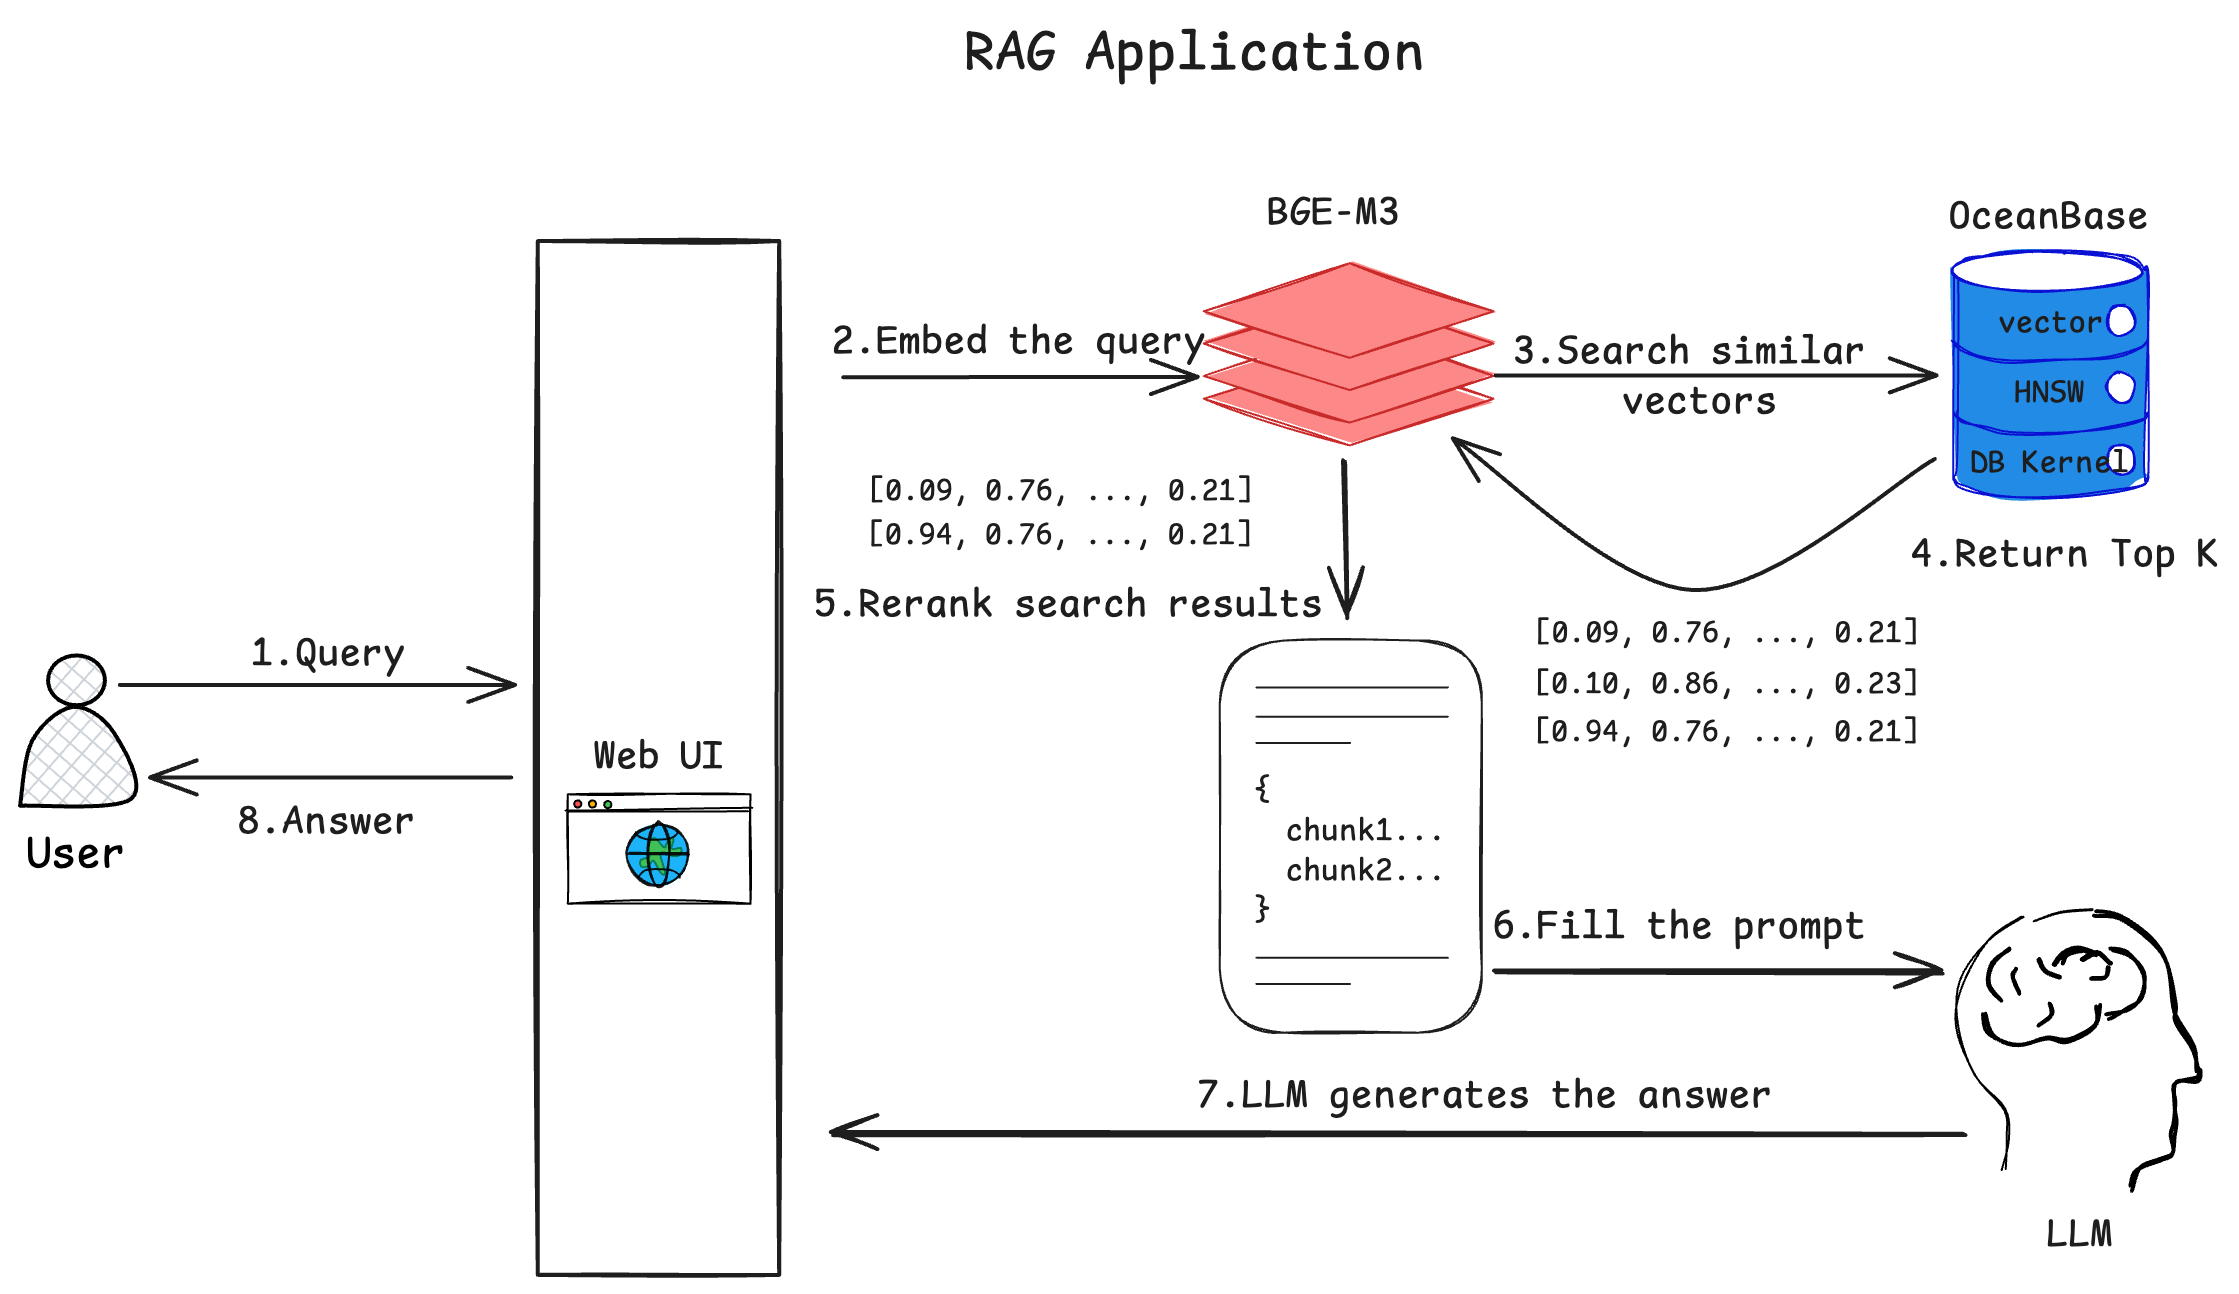
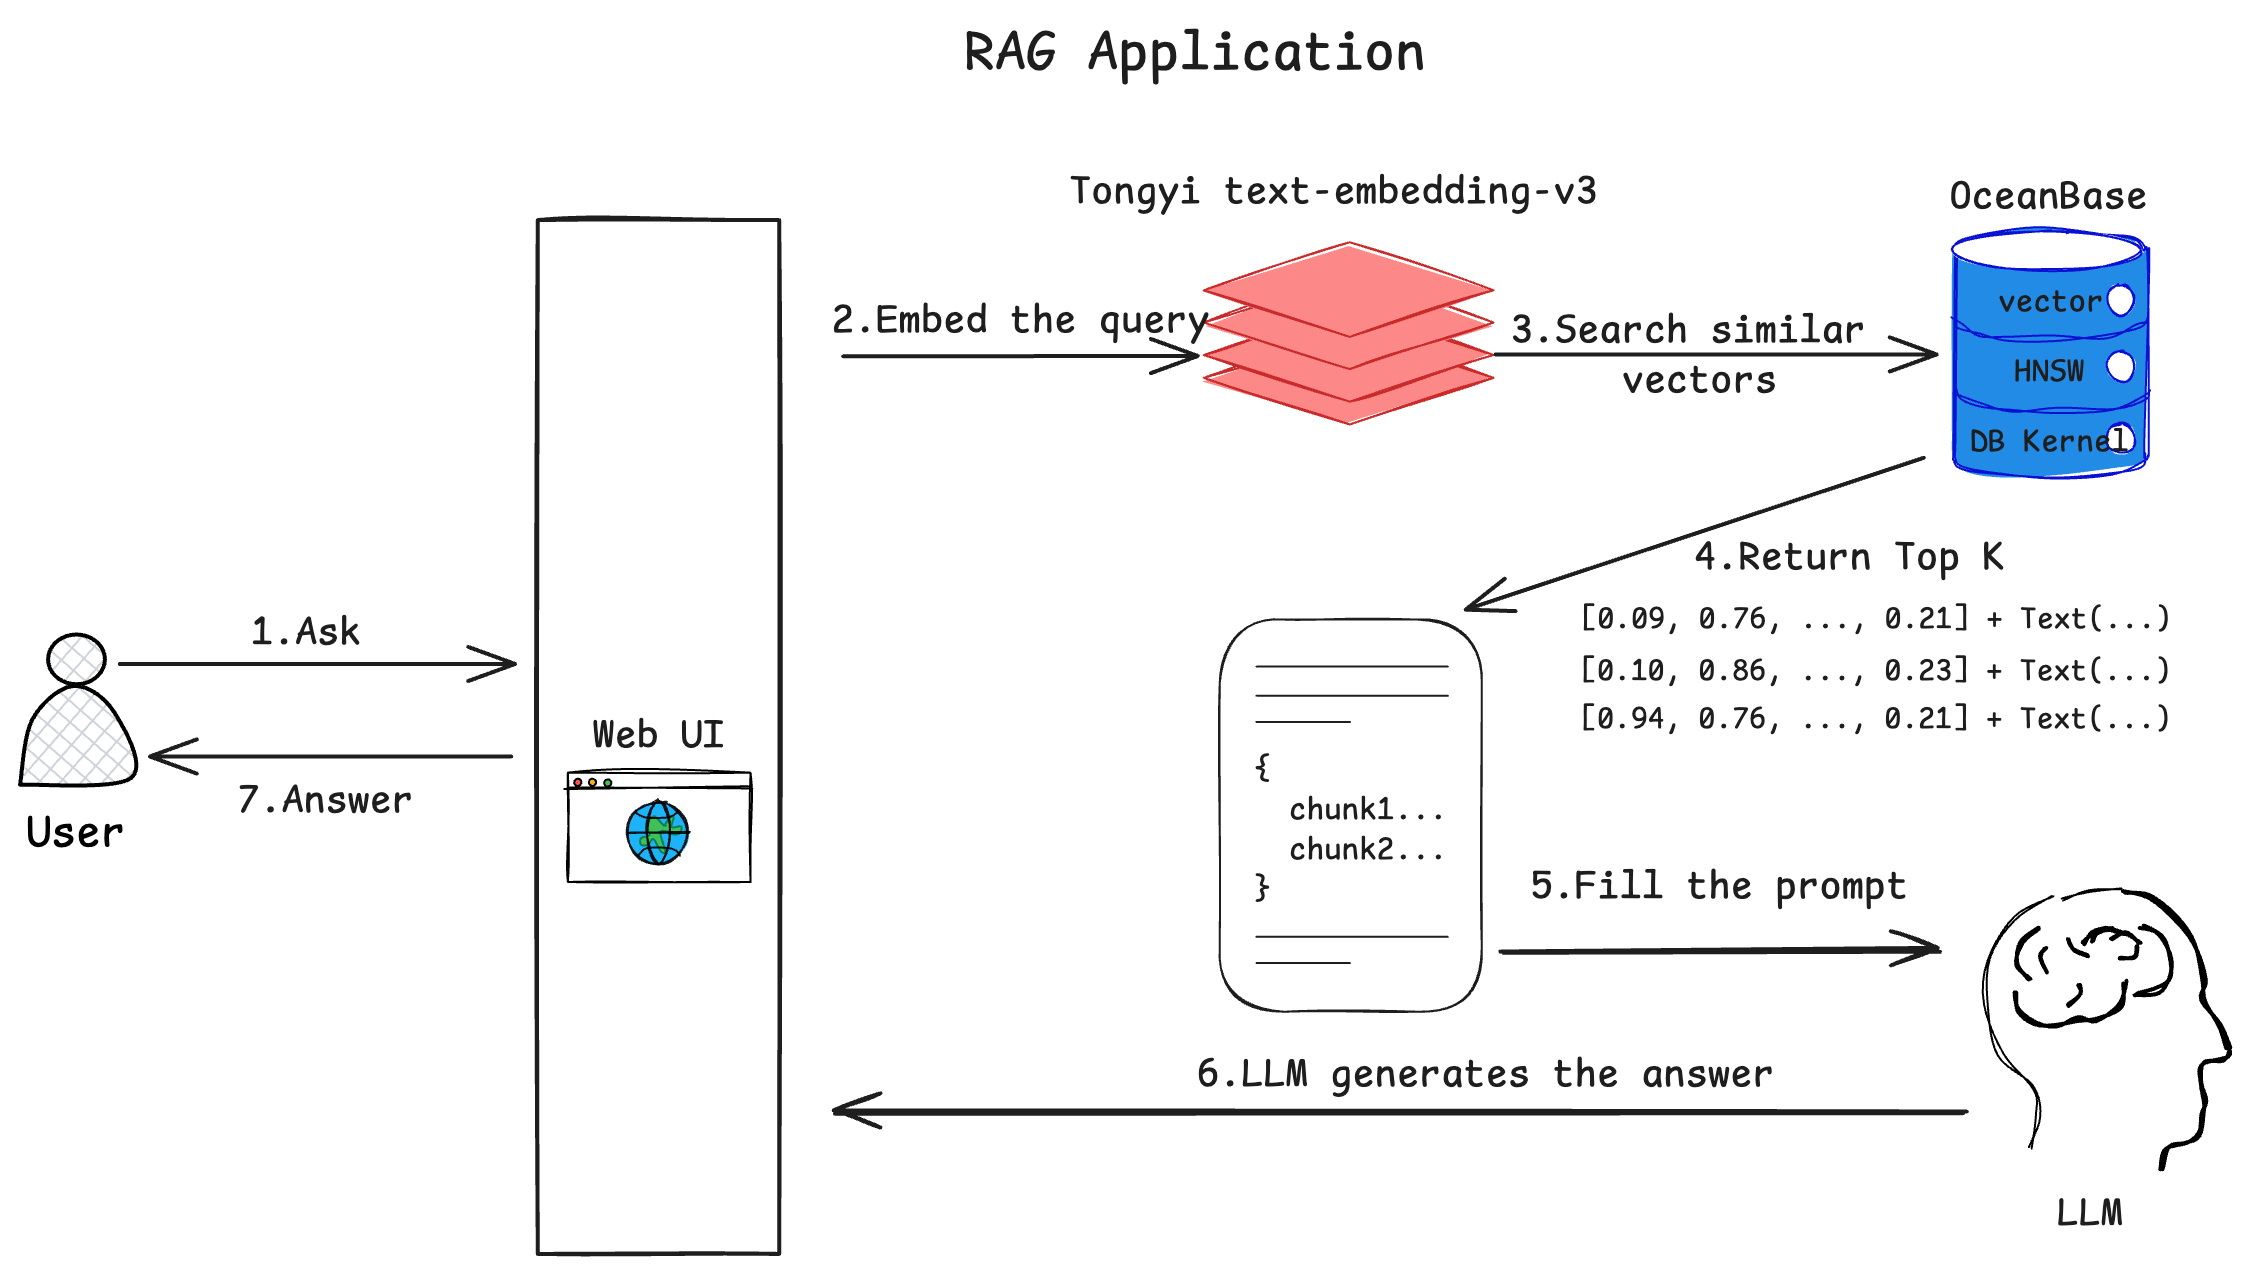
docs: update readme_zh for adopting tongyi embedding

diff --git a/README_zh.md b/README_zh.md
@@ -2,38 +2,109 @@
 
 [英文版](./README.md)
 
-## 介绍
+## 项目介绍
 
-在这个动手实战营中，我们会构建一个 RAG 聊天机器人，用来回答与 OceanBase 文档相关的问题。它将采用开源的 OceanBase 文档仓库作为多模数据源，把文档转换为向量和结构化数据存储在 OceanBase 中。用户提问时，该机器人将用户的问题作为输入在数据库中进行文档检索，结合文档检索的结果，借助智谱 AI 提供的大语言模型能力来回答用户的问题。
+在这个动手实战营中，我们会构建一个 RAG 聊天机器人，用来回答与 OceanBase 文档相关的问题。它将采用开源的 OceanBase 文档仓库作为多模数据源，把文档转换为向量和结构化数据存储在 OceanBase 中。用户提问时，该机器人将用户的问题同样转换为向量之后在数据库中进行向量检索，结合向量检索得到的文档内容，借助通义千问提供的大语言模型能力来为用户提供更加准确的回答。
+
+### 项目组成
 
 该机器人将由以下几个组件组成：
 
-1. 将文档转换为向量的文本嵌入模型，BGE-M3
-2. 提供存储和查询文档向量和其他结构化数据的数据库，OceanBase
-3. 若干分析用户问题、基于检索到的文档和用户问题生成回答的 LLM 智能体，利用智谱 AI 的大模型能力
-4. 与用户交互的聊天界面，采用 Streamlit 搭建
+1. 将文档转换为向量的文本嵌入服务，在这里我们使用通义千问的嵌入 API
+2. 提供存储和查询文档向量和其他结构化数据能力的数据库，我们使用 OceanBase 4.3.3 版本
+3. 若干分析用户问题、基于检索到的文档和用户问题生成回答的 LLM 智能体，利用通义千问的大模型能力构建
+4. 机器人与用户交互的聊天界面，采用 Streamlit 搭建
+
+### 交互流程
 
 ![RAG 流程](./demo/rag-flow.png)
 
+1. 用户在 Web 界面中输入想要咨询的问题并发送给机器人
+2. 机器人将用户提出的问题使用文本嵌入模型转换为向量
+3. 将用户提问转换而来的向量作为输入在 OceanBase 中检索最相似的向量
+4. OceanBase 返回最相似的一些向量和对应的文档内容
+5. 机器人将用户的问题和查询到的文档一起发送给大语言模型并请它生成问题的回答
+6. 大语言模型分片地、流式地将答案返回给机器人
+7. 机器人将接收到的答案也分片地、流式地显示在 Web 界面中，完成一轮问答
+
+## 概念解析
+
+### 什么是文本嵌入?
+
+文本嵌入是一种将文本转换为数值向量的技术。这些向量能够捕捉文本的语义信息，使计算机可以"理解"和处理文本的含义。具体来说:
+
+- 文本嵌入将词语或句子映射到高维向量空间中的点
+- 在这个向量空间中，语义相似的文本会被映射到相近的位置
+- 向量通常由数百个数字组成(如 512 维、1024 维等)
+- 可以用数学方法(如余弦相似度)计算向量之间的相似度
+- 常见的文本嵌入模型包括 Word2Vec、BERT、BGE 等
+
+在本项目中，我们使用通义千问的文本嵌入模型来生成文档的向量表示，这些向量将被存储在 OceanBase 数据库中用于后续的相似度检索。
+
+例如使用嵌入模型将“苹果”、“香蕉”和“橘子”分别转换为 4 维的向量，它们的向量表示可能如下图所示，需要注意的是我们为了方便表示，将向量的维度降低到了 4 维，实际上文本嵌入产生的向量维数通常是几百或者几千维，例如我们使用的通义千问 text-embedding-v3 产生的向量维度是 1024 维。
+
+![Embedding Example](./demo/embedding-example.png)
+
+### 什么是向量检索?
+
+向量检索是在向量数据库中快速找到与查询向量最相似的向量的技术。其核心特点包括:
+
+- 基于向量间的距离（如欧氏距离）或相似度（如余弦相似度）进行搜索
+- 通常使用近似最近邻（Approximate Nearest Neighbor, ANN）算法来提高检索效率
+- 常见的 ANN 算法包括 HNSW、IVF 等，OceanBase 4.3.3 支持 HNSW 算法
+- 可以快速从百万甚至亿级别的向量中找到最相似的结果
+- 相比传统关键词搜索，向量检索能更好地理解语义相似性
+
+OceanBase 在关系型数据库模型基础上将“向量”作为一种数据类型进行了完好的支持，使得在 OceanBase 一款数据库中能够同时针对向量数据和常规的结构化数据进行高效的存储和检索。在本项目中，我们会使用OceanBase 建立 HNSW (Hierarchical Navigable Small World) 向量索引来实现高效的向量检索，帮助我们快速找到与用户问题最相关的文档片段。
+
+如果我们在已经嵌入“苹果”、“香蕉”和“橘子”的 OceanBase 数据库中使用“红富士”作为查询文本，那么我们可能会得到如下的结果，其中“苹果”和“红富士”之间的相似度最高。（假设我们使用余弦相似度作为相似度度量）
+
+![Vector Search Example](./demo/vector-search-example.png)
+
+### 什么是 RAG?
+
+RAG (Retrieval-Augmented Generation，检索增强生成) 是一种结合检索系统和生成式 AI 的混合架构，用于提高 AI 回答的准确性和可靠性。其工作流程为:
+
+1. 检索阶段:
+
+- 将用户问题转换为向量
+- 在知识库中检索相关文档
+- 选择最相关的文档片段
+
+2. 生成阶段:
+
+- 将检索到的文档作为上下文提供给大语言模型
+- 大语言模型基于问题和上下文生成回答
+- 确保回答的内容来源可追溯
+
+RAG 的主要优势有：
+
+- 降低大语言模型的幻觉问题
+- 能够利用最新的知识和专业领域信息
+- 提供可验证和可追溯的答案
+- 适合构建特定领域的问答系统
+
+大语言模型的训练和发布需要耗费较长的时间，且训练数据在开启训练之后便停止了更新。而现实世界的信息熵增无时无刻不在持续，要让大语言模型在“昏迷”几个月之后还能自发地掌握当下最新的信息显然是不现实的。而 RAG 就是让大模型用上了“搜索引擎”，在回答问题前先获取新的知识输入，这样通常能较大幅度地提高生成回答的准确性。
+
 ## 准备工作
 
-注意：如果您正在参加 OceanBase AI 动手实战营，您可以跳过以下步骤 1 ~ 3。所有所需的软件都已经在机器上准备好了。:)
+注意：如果您正在参加 OceanBase AI 动手实战营，您可以跳过以下步骤 1 ~ 4。所有所需的软件都已经在机器上准备好了。:)
 
 1. 安装 [Python 3.9+](https://www.python.org/downloads/) 和 [pip](https://pip.pypa.io/en/stable/installation/)
 
-2. 安装 [Poetry](https://python-poetry.org/docs/)
-
-```bash
-python3 -m pip install poetry
-```
+2. 安装 [Poetry](https://python-poetry.org/docs/)，可参考命令 `python3 -m pip install poetry`
 
 3. 安装 [Docker](https://docs.docker.com/engine/install/)
 
-4. 注册 [智谱 AI](https://open.bigmodel.cn/) 账号并获取 API Key
+4. 安装 MySQL 客户端，可参考 `yum install -y mysql` 或者 `apt-get install -y mysql-client`
 
-![智谱 AI](./demo/zhipu-dashboard.png)
+5. 确保您机器上该项目的代码是最新的状态，建议进入项目目录执行 `git pull`
 
-![智谱 API Key](./demo/zhipu-api-key.png)
+6. 注册[阿里云百炼](https://bailian.console.aliyun.com/)账号并获取 API Key
+
+![阿里云百炼](./demo/dashboard.png)
+
+![获取阿里云百炼 API Key](./demo/get-api-key.png)
 
 ## 构建聊天机器人
 
@@ -50,7 +121,7 @@ systemctl start docker
 随后您可以使用以下命令启动一个 OceanBase docker 容器：
 
 ```bash
-docker run --ulimit stack=4294967296 --name=ob433 -e MODE=mini -e OB_MEMORY_LIMIT=8G -e OB_DATAFILE_SIZE=10G -e OB_CLUSTER_NAME=ailab2024 -p 127.0.0.1:2881:2881 -d quay.io/oceanbase/oceanbase-ce:4.3.3.1-101000012024102216
+docker run --name=ob433 -e MODE=mini -e OB_MEMORY_LIMIT=8G -e OB_DATAFILE_SIZE=10G -e OB_CLUSTER_NAME=ailab2024 -p 127.0.0.1:2881:2881 -d quay.io/oceanbase/oceanbase-ce:4.3.3.1-101000012024102216
 ```
 
 如果上述命令执行成功，将会打印容器 ID，如下所示：
@@ -81,26 +152,16 @@ Wait for observer init ok
 +------------+---------+------+-------+--------+
 | ip         | version | port | zone  | status |
 +------------+---------+------+-------+--------+
-| 172.17.0.2 | 4.3.3.0 | 2881 | zone1 | ACTIVE |
+| 172.17.0.2 | 4.3.3.1 | 2881 | zone1 | ACTIVE |
 +------------+---------+------+-------+--------+
 obclient -h172.17.0.2 -P2881 -uroot -Doceanbase -A
 
 cluster unique id: c17ea619-5a3e-5656-be07-00022aa5b154-19298807cfb-00030304
 
 obcluster running
-Trace ID: 08f99c98-8c37-11ef-ad07-0242ac110002
-If you want to view detailed obd logs, please run: obd display-trace 08f99c98-8c37-11ef-ad07-0242ac110002
-Get local repositories and plugins ok
-Open ssh connection ok
-Connect to observer ok
-Create tenant test ok
-Exec oceanbase-ce-4.3.3.0-100000142024101215.el8-3eee13839888800065c13ffc5cd7c3e6b12cb55c import_time_zone_info.py ok
-Exec oceanbase-ce-4.3.3.0-100000142024101215.el8-3eee13839888800065c13ffc5cd7c3e6b12cb55c import_srs_data.py ok
-obclient -h172.17.0.2 -P2881 -uroot@test -Doceanbase -A
 
-optimize tenant with scenario: express_oltp ok
-Trace ID: 3c50193c-8c37-11ef-ace2-0242ac110002
-If you want to view detailed obd logs, please run: obd display-trace 3c50193c-8c37-11ef-ace2-0242ac110002
+...
+
 check tenant connectable
 tenant is connectable
 boot success!
@@ -161,45 +222,47 @@ cp .env.example .env
 vi .env
 ```
 
-`.env.example` 文件的内容如下，如果您正在按照动手实战营的步骤进行操作（使用智谱 AI 提供的 LLM 能力），您只需要更新 `API_KEY` 为您从智谱 AI 控制台获取的值，其他值可以保留为默认值。
+`.env.example` 文件的内容如下，如果您正在按照动手实战营的步骤进行操作（使用通义千问提供的 LLM 能力），您只需要更新 `API_KEY` 为您从阿里云百炼控制台获取的值，其他值可以保留为默认值。
 
 ```bash
-API_KEY=xxxxxxxxxxxxxxxxxxxxxxxxxxxxxxxx # 把这个配置项更新为您从智谱 AI 上获取到的 API_KEY
-LLM_BASE_URL="https://open.bigmodel.cn/api/paas/v4/"
-LLM_MODEL="glm-4-flash"
+API_KEY=xxxxxxxxxxxxxxxxxxxxxxxxxxxxxxxx # 填写 API Key
+LLM_MODEL="qwen-turbo-2024-11-01"
+LLM_BASE_URL="https://dashscope.aliyuncs.com/compatible-mode/v1"
 
 HF_ENDPOINT=https://hf-mirror.com
 BGE_MODEL_PATH=BAAI/bge-m3
 
+OLLAMA_URL=
+OLLAMA_TOKEN=
+
+OPENAI_API_KEY= # 填写 API Key
+OPENAI_BASE_URL="https://dashscope.aliyuncs.com/compatible-mode/v1"
+OPENAI_EMBEDDING_MODEL=text-embedding-v3
+
 DB_HOST="127.0.0.1"
 DB_PORT="2881"
 DB_USER="root@test"
-DB_NAME="test"
+DB_NAME="" # 填写你的数据库名
 DB_PASSWORD=""
+
+UI_LANG="zh"
 ```
 
-### 4. 准备 BGE-M3 模型
+### 4. 创建数据库
 
-BGE-M3 是一个预训练模型，可以将文本转换为向量。它在多种语言的嵌入任务中表现良好，可以用于将 OceanBase 的开源文档嵌入成为向量。
-
-我们通过执行以下命令准备 BGE-M3 模型：
+您可使用我们准备好的创建数据库的脚本来完成快速创建，可参考如下命令:
 
 ```bash
-poetry run python utils/prepare_bgem3.py
+bash utils/create_db.sh
+# 如果有如下输出说明数据库创建完成
+# Database xxx created successfully
 ```
 
-BGE-M3 模型文件大小约为 2 ~ 3 GB，下载过程可能会花费较长时间，具体时间取决于您的网络状况。如果模型已经下载完成，这一步大约需要半分钟来加载模型。当模型准备好时，您将看到以下消息：
+可通过另外一个脚本来尝试连接数据库，以确保数据库创建成功：
 
 ```bash
-Fetching 30 files: 100%|████████████████████████████████████████████████████████████████| 30/30 [00:00<00:00, 104509.24it/s]
-/root/.cache/pypoetry/virtualenvs/ai-workshop-aLQYZfdO-py3.10/lib/python3.10/site-packages/FlagEmbedding/BGE_M3/modeling.py:335: FutureWarning: You are using `torch.load` with `weights_only=False` (the current default value), which uses the default pickle module implicitly. It is possible to construct malicious pickle data which will execute arbitrary code during unpickling (See https://github.com/pytorch/pytorch/blob/main/SECURITY.md#untrusted-models for more details). In a future release, the default value for `weights_only` will be flipped to `True`. This limits the functions that could be executed during unpickling. Arbitrary objects will no longer be allowed to be loaded via this mode unless they are explicitly allowlisted by the user via `torch.serialization.add_safe_globals`. We recommend you start setting `weights_only=True` for any use case where you don't have full control of the loaded file. Please open an issue on GitHub for any issues related to this experimental feature.
-  colbert_state_dict = torch.load(os.path.join(model_dir, 'colbert_linear.pt'), map_location='cpu')
-/root/.cache/pypoetry/virtualenvs/ai-workshop-aLQYZfdO-py3.10/lib/python3.10/site-packages/FlagEmbedding/BGE_M3/modeling.py:336: FutureWarning: You are using `torch.load` with `weights_only=False` (the current default value), which uses the default pickle module implicitly. It is possible to construct malicious pickle data which will execute arbitrary code during unpickling (See https://github.com/pytorch/pytorch/blob/main/SECURITY.md#untrusted-models for more details). In a future release, the default value for `weights_only` will be flipped to `True`. This limits the functions that could be executed during unpickling. Arbitrary objects will no longer be allowed to be loaded via this mode unless they are explicitly allowlisted by the user via `torch.serialization.add_safe_globals`. We recommend you start setting `weights_only=True` for any use case where you don't have full control of the loaded file. Please open an issue on GitHub for any issues related to this experimental feature.
-  sparse_state_dict = torch.load(os.path.join(model_dir, 'sparse_linear.pt'), map_location='cpu')
-
-===================================
-BGEM3FlagModel loaded successfully！
-===================================
+bash utils/connect_db.sh
+# 如果顺利进入 MySQL 连接当中，则验证了数据库创建成功
 ```
 
 ### 5. 准备文档数据
